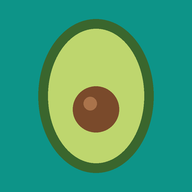
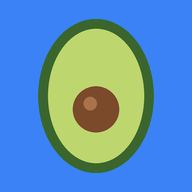
Mangiamo: identidad azul (fondo, botones, íconos), palta en verde
Claude-Session: https://claude.ai/code/session_013L3XiV7UsyvQraHaj1yPVs

diff --git a/index.html b/index.html
@@ -5,15 +5,15 @@
 <meta name="viewport" content="width=device-width,initial-scale=1,viewport-fit=cover">
 <title>Mangiamo</title>
 <link rel="manifest" href="manifest.webmanifest">
-<meta name="theme-color" content="#0d9488">
+<meta name="theme-color" content="#3b82f6">
 <meta name="mobile-web-app-capable" content="yes">
 <meta name="apple-mobile-web-app-capable" content="yes">
 <meta name="apple-mobile-web-app-title" content="Mangiamo">
 <link rel="icon" href="icon-192.png">
 <link rel="apple-touch-icon" href="apple-touch-icon.png">
 <style>
-:root{--bg:#f8fafc;--card:#fff;--tx:#0f172a;--mut:#64748b;--pri:#0d9488;--bd:#e2e8f0;--soft:#f1f5f9}
-@media(prefers-color-scheme:dark){:root{--bg:#0b1220;--card:#131c2e;--tx:#e5e7eb;--mut:#94a3b8;--bd:#24304a;--soft:#1a2540}}
+:root{--bg:#eff6ff;--card:#fff;--tx:#1e293b;--mut:#64748b;--pri:#3b82f6;--bd:#e2e8f0;--soft:#e0ecff}
+@media(prefers-color-scheme:dark){:root{--bg:#0b1426;--card:#14213a;--tx:#e5e7eb;--mut:#94a3b8;--bd:#223356;--soft:#1b2c4d}}
 *{box-sizing:border-box}
 html{-webkit-text-size-adjust:100%;overflow-x:hidden;max-width:100vw}
 body{overflow-x:hidden;max-width:100vw}
@@ -74,8 +74,8 @@ textarea{width:100%;padding:10px;border-radius:10px;border:1px solid var(--bd);b
 #wstoast.show{opacity:1}
 
 /* ---------- diseño amable y minimalista (v2) ---------- */
-:root{--bg:#f5f7f8;--card:#fff;--tx:#0f172a;--mut:#6b7686;--pri:#0f9f8f;--bd:#e8edf1;--soft:#eef2f5;--tint:#e7f6f3;--sh:0 1px 2px rgba(15,23,42,.04),0 6px 20px rgba(15,23,42,.06);--r:20px}
-@media(prefers-color-scheme:dark){:root{--bg:#0d1420;--card:#16202f;--tx:#e8ecf1;--mut:#97a3b4;--bd:#243146;--soft:#1d2a3d;--tint:#12342f;--sh:0 1px 2px rgba(0,0,0,.25),0 6px 20px rgba(0,0,0,.28)}}
+:root{--bg:#eff6ff;--card:#fff;--tx:#1e293b;--mut:#64748b;--pri:#3b82f6;--bd:#dbe7fb;--soft:#e2edff;--tint:#dbeafe;--sh:0 1px 2px rgba(30,64,175,.05),0 6px 20px rgba(30,64,175,.08);--r:20px}
+@media(prefers-color-scheme:dark){:root{--bg:#0b1426;--card:#14213a;--tx:#e8ecf1;--mut:#97a3b4;--bd:#223356;--soft:#1b2c4d;--tint:#172a52;--sh:0 1px 2px rgba(0,0,0,.25),0 6px 20px rgba(0,0,0,.28)}}
 body{font-size:16px;line-height:1.35;padding-bottom:96px}
 header{border-bottom:0;box-shadow:0 1px 0 var(--bd);padding:12px 16px 10px}
 h1{font-size:19px;letter-spacing:-.01em;margin:0 0 10px}
@@ -150,7 +150,7 @@ summary{cursor:pointer;padding:6px 0}
 .wz-in h1{font-size:30px;font-weight:900;margin:14px 0 8px;letter-spacing:-.5px}
 .wz-in h2{font-size:24px;font-weight:800;margin:0 0 8px}
 .wz-p{color:var(--mut);font-size:15px;line-height:1.5;margin:0 0 18px}
-.wz-logo{width:92px;height:92px;border-radius:30px;background:var(--pri);display:flex;align-items:center;justify-content:center;font-size:44px;margin:0 auto;box-shadow:0 12px 30px rgba(13,148,136,.28)}
+.wz-logo{width:92px;height:92px;border-radius:30px;background:var(--pri);display:flex;align-items:center;justify-content:center;font-size:44px;margin:0 auto;box-shadow:0 12px 30px rgba(59,130,246,.28)}
 .wz-note{background:var(--soft);border-radius:14px;padding:12px 14px;font-size:14px;line-height:1.5;text-align:left;margin:0 0 14px}
 .wz-input{width:100%;padding:16px;border-radius:16px;border:2px solid var(--bd);background:var(--card);color:var(--tx);font-size:18px;font-weight:700;text-align:center;font-family:inherit}
 .wz-input:focus{outline:none;border-color:var(--pri)}
@@ -161,7 +161,7 @@ summary{cursor:pointer;padding:6px 0}
 .wz-chip{display:flex;align-items:center;gap:12px;width:100%;text-align:left;padding:13px 14px;border:2px solid var(--bd);background:var(--card);color:var(--tx);border-radius:16px;font-size:16px;font-weight:700;cursor:pointer;margin-bottom:10px;font-family:inherit;transition:transform .1s,border-color .2s,background .2s}
 .wz-chip:active{transform:scale(.98)}
 .wz-chip[disabled]{opacity:.45;cursor:default}
-.wz-chip[aria-pressed=true]{border-color:var(--pri);background:rgba(13,148,136,.1)}
+.wz-chip[aria-pressed=true]{border-color:var(--pri);background:rgba(59,130,246,.1)}
 .wz-chip small{display:block;font-weight:500;font-size:12px;line-height:1.35;color:var(--mut);margin-top:2px}
 .wz-em{font-size:26px;flex:none;width:34px;text-align:center}
 .wz-ck{margin-left:auto;font-size:18px;color:var(--pri);opacity:0;flex:none}
@@ -171,7 +171,7 @@ summary{cursor:pointer;padding:6px 0}
 .wz-row{display:flex;align-items:center;gap:12px;padding:10px 12px;border:1px solid var(--bd);border-radius:14px;background:var(--card);margin-bottom:8px;text-align:left}
 .wz-row small{display:block;color:var(--mut);font-size:12px;margin-top:1px}
 .wz-foot{margin-top:12px;max-width:440px;width:100%;align-self:center;min-height:56px}
-.wz-go{width:100%;padding:16px;border:none;border-radius:16px;background:var(--pri);color:#fff;font-size:17px;font-weight:800;cursor:pointer;font-family:inherit;box-shadow:0 8px 20px rgba(13,148,136,.25)}
+.wz-go{width:100%;padding:16px;border:none;border-radius:16px;background:var(--pri);color:#fff;font-size:17px;font-weight:800;cursor:pointer;font-family:inherit;box-shadow:0 8px 20px rgba(59,130,246,.25)}
 .wz-go:active{transform:scale(.98)}
 .wz-go:disabled{background:var(--soft);color:var(--mut);box-shadow:none;cursor:default}
 </style>

diff --git a/backup.js b/backup.js
@@ -180,7 +180,7 @@ function bkRestoreApply(){
 (function(){
   var s=document.createElement('style');
   s.textContent='#bkbar{position:fixed;left:12px;right:12px;bottom:calc(76px + env(safe-area-inset-bottom));z-index:40;background:#0f172a;color:#fff;border-radius:14px;padding:10px 12px;display:flex;align-items:center;gap:8px;font-size:14px;box-shadow:0 4px 16px rgba(0,0,0,.25)}'+
-  '#bkbar span{flex:1}#bkbar button{background:#0d9488;color:#fff;border:0;border-radius:10px;padding:8px 12px;font-weight:700;font-size:14px}#bkbar button.x{background:transparent;padding:8px;color:#cbd5e1}'+
+  '#bkbar span{flex:1}#bkbar button{background:#3b82f6;color:#fff;border:0;border-radius:10px;padding:8px 12px;font-weight:700;font-size:14px}#bkbar button.x{background:transparent;padding:8px;color:#cbd5e1}'+
   '#bkr{position:fixed;inset:0;z-index:200;background:rgba(0,0,0,.55);display:flex;align-items:flex-end;justify-content:center}'+
   '.bkr-box{background:var(--card);color:var(--fg,inherit);width:100%;max-width:560px;border-radius:18px 18px 0 0;padding:14px 16px calc(16px + env(safe-area-inset-bottom));max-height:90vh;overflow:auto}'+
   '.wz-link{background:none;border:0;color:var(--mut);text-decoration:underline;font-size:15px;padding:14px 8px;margin-top:6px}';

diff --git a/sw.js b/sw.js
@@ -1,4 +1,4 @@
-const C='mangiamo-v4',F=['./','index.html','store.js','app.js','data.js','diets.js','workspace.js','wizard.js','backup.js','legal.js','apoyo.js','icon-192.png'];
+const C='mangiamo-v5',F=['./','index.html','store.js','app.js','data.js','diets.js','workspace.js','wizard.js','backup.js','legal.js','apoyo.js','icon-192.png'];
 self.addEventListener('install',e=>{e.waitUntil(caches.open(C).then(c=>c.addAll(F)).then(()=>self.skipWaiting()));});
 self.addEventListener('activate',e=>{e.waitUntil(caches.keys().then(ks=>Promise.all(ks.filter(k=>k!==C).map(k=>caches.delete(k)))).then(()=>self.clients.claim()));});
 self.addEventListener('fetch',e=>{

diff --git a/app.js b/app.js
@@ -289,7 +289,7 @@ function drawWheel(){
   var ctx=cv.getContext('2d'),W=cv.width,R=W/2-6,n=wheel.items.length;
   ctx.clearRect(0,0,W,W);
   if(!n){ctx.fillStyle='#94a3b8';ctx.font='bold 34px sans-serif';ctx.textAlign='center';ctx.fillText('Sin opciones',W/2,W/2);return;}
-  var seg=2*Math.PI/n,pal=['#0f9f8f','#f59e0b','#ef4444','#6366f1','#10b981','#ec4899','#0ea5e9','#84cc16'];
+  var seg=2*Math.PI/n,pal=['#3b82f6','#f59e0b','#ef4444','#6366f1','#10b981','#ec4899','#0ea5e9','#84cc16'];
   for(var i=0;i<n;i++){
     var a=wheel.rot+i*seg;
     ctx.beginPath();ctx.moveTo(W/2,W/2);ctx.arc(W/2,W/2,R,a,a+seg);ctx.closePath();

diff --git a/workspace.js b/workspace.js
@@ -4,7 +4,7 @@
    Cada cambio de personas/comidas se guarda y recarga la app para reconstruir todo limpio. */
 
 var WS_KEYS='abcdefghijklmnopqrstuvwxyzABCDEFGHIJKLMNOPQRSTUVWXYZ0123456789';
-var WS_COLORS=['#0d9488','#16a34a','#d97706','#0284c7','#9333ea','#db2777','#dc2626','#4f46e5','#65a30d','#0891b2'];
+var WS_COLORS=['#3b82f6','#16a34a','#d97706','#0284c7','#9333ea','#db2777','#dc2626','#4f46e5','#65a30d','#0891b2'];
 var WS_MAX_MEALS=600;
 
 /* ---------- almacenamiento ---------- */
